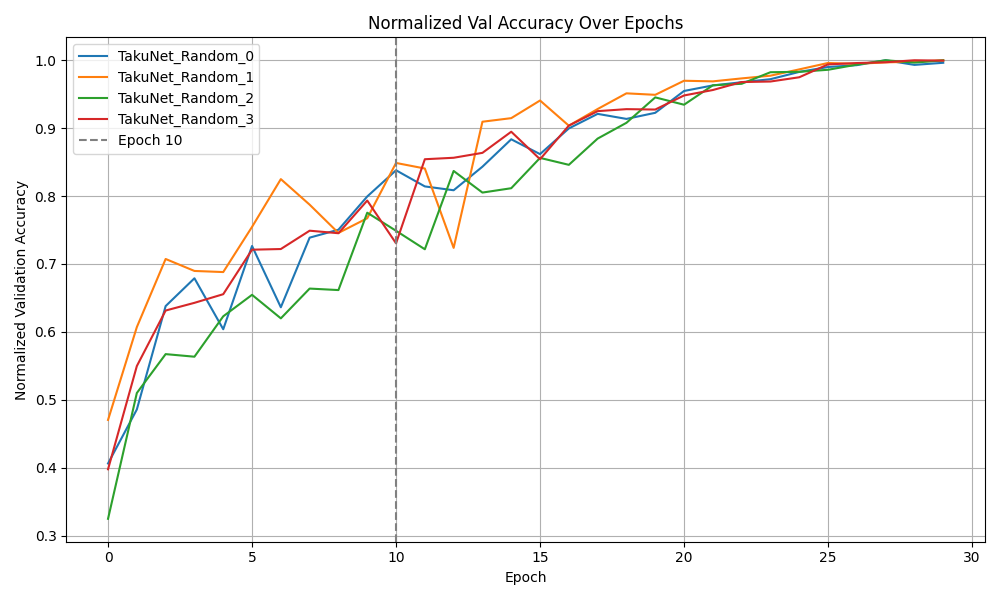
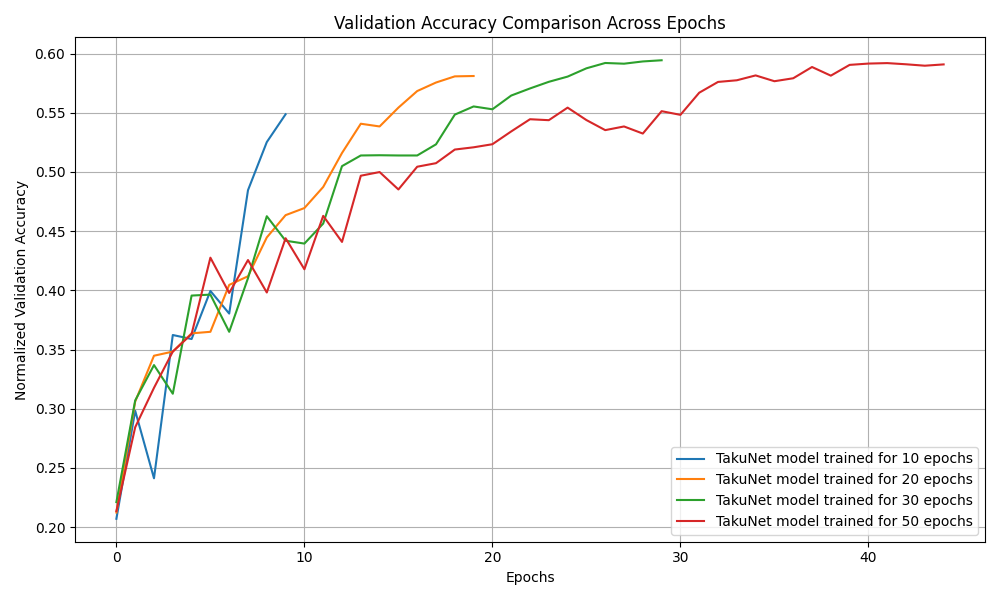
Plotting difference in RankNet

diff --git a/plotting/rankNetComparison.py b/plotting/rankNetComparison.py
@@ -1,0 +1,221 @@
+import os
+import argparse
+import pandas as pd
+import matplotlib.pyplot as plt
+from matplotlib.lines import Line2D
+import numpy as np
+
+# markers to distinguish different runs inside the same group
+MARKERS = ["o", "s", "D", "^", "v", "P", "X"]
+
+
+def read_csvs_from_folder(folder):
+    """Return list of (name, df) for all .csv files in folder, sorted by name."""
+    if not os.path.isdir(folder):
+        return []
+    files = [f for f in os.listdir(folder) if f.lower().endswith(".csv")]
+    files.sort()
+    out = []
+    for f in files:
+        path = os.path.join(folder, f)
+        df = pd.read_csv(path)
+        df = df.rename(columns=lambda x: x.strip())
+        out.append((f, df))
+    return out
+
+
+def detect_size_column(df):
+    """Try to find which column to use for bubble size."""
+    candidates = ["Estimated Flash Memory (KB)", "TFlite size(KB)"]
+    for c in candidates:
+        if c in df.columns:
+            return c
+    return None
+
+
+def plot_hour_run(root_dir, title=None, marker_scale=1.0, out_path=None):
+    """
+    root_dir/
+      WithRankNet/*.csv
+      WithoutRankNet/*.csv
+    """
+    with_dir = os.path.join(root_dir, "WithRankNet")
+    without_dir = os.path.join(root_dir, "WithoutRankNet")
+
+    # colors for the 2 categories
+    color_with = "tab:blue"
+    color_without = "tab:orange"
+
+    with_data = read_csvs_from_folder(with_dir)
+    without_data = read_csvs_from_folder(without_dir)
+
+    if not with_data and not without_data:
+        raise SystemExit(f"No CSVs found in {with_dir} or {without_dir}")
+
+    if title is None:
+        # use folder name as title
+        title = os.path.basename(os.path.normpath(root_dir))
+
+    if out_path is None:
+        out_path = os.path.join(root_dir, f"{title}_pareto.png")
+
+    # ---------------------------------------------------------
+    # 1) collect ALL size values (both folders) to normalize
+    # ---------------------------------------------------------
+    all_sizes = []
+    size_info = []  # (group, fname, df, size_col)
+
+    # store info for later plotting
+    for (group_name, data_list) in (("with", with_data), ("without", without_data)):
+        for fname, df in data_list:
+            # basic checks for x,y
+            for col in ["Best Test Accuracy", "Model RAM (KB)"]:
+                if col not in df.columns:
+                    raise ValueError(f"{fname} is missing column '{col}'")
+
+            size_col = detect_size_column(df)
+            if size_col is None:
+                raise ValueError(f"{fname} has no size column (TFlite/Flash).")
+
+            sizes = df[size_col].to_numpy()
+            all_sizes.extend(list(sizes))
+            size_info.append((group_name, fname, df, size_col))
+
+    # normalize sizes to a nice range
+    all_sizes = np.array(all_sizes, dtype=float)
+    min_size_display, max_size_display = 80, 800  # tweak here
+    s_min, s_max = all_sizes.min(), all_sizes.max()
+    # avoid division by zero
+    def normalize_sizes(raw):
+        if s_max == s_min:
+            return np.full_like(raw, (min_size_display + max_size_display) / 2.0)
+        norm = (raw - s_min) / (s_max - s_min)
+        return norm * (max_size_display - min_size_display) + min_size_display
+
+    # ---------------------------------------------------------
+    # 2) do the actual plotting
+    # ---------------------------------------------------------
+    plt.figure(figsize=(12, 6))
+    legend_entries = []
+
+    # plot WITH RankNet second (so it appears on top)
+    # first: WITHOUT
+    idx_without = 0
+    for group_name, fname, df, size_col in size_info:
+        if group_name != "without":
+            continue
+        marker = MARKERS[idx_without % len(MARKERS)]
+        idx_without += 1
+
+        bubble_sizes = normalize_sizes(df[size_col].to_numpy()) * marker_scale
+
+        plt.scatter(
+            df["Model RAM (KB)"],
+            df["Best Test Accuracy"],
+            s=bubble_sizes,
+            alpha=0.7,
+            color=color_without,
+            marker=marker,
+            edgecolors="black",
+            zorder=2,
+        )
+        legend_entries.append(
+            (f"No RankNet - {os.path.splitext(fname)[0]}", color_without, marker)
+        )
+
+    # then: WITH
+    idx_with = 0
+    for group_name, fname, df, size_col in size_info:
+        if group_name != "with":
+            continue
+        marker = MARKERS[idx_with % len(MARKERS)]
+        idx_with += 1
+
+        bubble_sizes = normalize_sizes(df[size_col].to_numpy()) * marker_scale
+
+        plt.scatter(
+            df["Model RAM (KB)"],
+            df["Best Test Accuracy"],
+            s=bubble_sizes,
+            alpha=0.9,
+            color=color_with,
+            marker=marker,
+            edgecolors="black",
+            zorder=3,  # on top
+        )
+        legend_entries.append(
+            (f"With RankNet - {os.path.splitext(fname)[0]}", color_with, marker)
+        )
+
+    # labels, grid, invert x
+    plt.xlabel("RAM Consumption (KB)", fontsize=12)
+    plt.ylabel("Val. Accuracy", fontsize=12)
+    plt.title(title, fontsize=14)
+    plt.grid(True)
+    plt.gca().invert_xaxis()
+
+    # build legend
+    handles = []
+    for text, color, marker in legend_entries:
+        handles.append(
+            Line2D(
+                [0],
+                [0],
+                marker=marker,
+                color="w",
+                label=text,
+                markerfacecolor=color,
+                markeredgecolor="black",
+                markersize=8,
+            )
+        )
+
+    plt.legend(
+        handles=handles,
+        loc="center left",
+        bbox_to_anchor=(1, 0.5),
+        fontsize=9,
+    )
+
+    plt.tight_layout(rect=[0, 0, 0.82, 1])
+    plt.savefig(out_path, dpi=300)
+    print(f"✅ saved to {out_path}")
+    plt.close()
+
+
+if __name__ == "__main__":
+    parser = argparse.ArgumentParser(
+        description="Plot RankNet vs non-RankNet runs from a single hour-run folder."
+    )
+    parser.add_argument(
+        "--hour_run_dir",
+        type=str,
+        required=True,
+        help='Path to the hour-run folder (e.g. "./10Hours"). This folder must contain "WithRankNet" and/or "WithoutRankNet".',
+    )
+    parser.add_argument(
+        "--title",
+        type=str,
+        default=None,
+        help="Title to show on top. If not given, the folder name is used.",
+    )
+    parser.add_argument(
+        "--marker_scale",
+        type=float,
+        default=1.0,   # 1.0 because we already normalize
+        help="Extra scale factor for bubble size.",
+    )
+    parser.add_argument(
+        "--out",
+        type=str,
+        default=None,
+        help="Output image path. If not given, saved inside the hour-run folder.",
+    )
+    args = parser.parse_args()
+
+    plot_hour_run(
+        root_dir=args.hour_run_dir,
+        title=args.title,
+        marker_scale=args.marker_scale,
+        out_path=args.out,
+    )

diff --git a/search_strategy.py b/search_strategy.py
@@ -388,24 +388,26 @@ class EvolutionarySearch:
             print(f"💪 All Competitors were trained. Selected {best_model.model_name} by fitness.\n")
             return best_model
 
-        # 🔁 Case 2: Use pairwise RankNet votes
+        # 🔁 Case 2: All the models are not trained
+        # Use pairwise RankNet votes
         vote_counts = [0] * len(models)
 
         for i in range(len(models) - 1):
             for j in range(i + 1, len(models)):
                 embed_i = np.expand_dims(simple_architecture_embedding(models[i].model_params), axis=0)
                 embed_j = np.expand_dims(simple_architecture_embedding(models[j].model_params), axis=0)
+                 # Use RankNet to predict winner
                 pred = self.ranknet.predict([embed_i, embed_j], verbose=0)
 
-                if pred[0][0] > 0.5:
-                    vote_counts[i] += 1
+                if pred[0][0] > 0.5: # Is embedding_i more promissing ?
+                    vote_counts[i] += 1 # Give 1 vote to embedding i
                 else:
-                    vote_counts[j] += 1
+                    vote_counts[j] += 1 # Give 1 vote to embedding j
 
         winner_index = int(np.argmax(vote_counts))
         predicted_winner = models[winner_index]
 
-        # 🛠 Train if needed
+        # 🛠 Train the expected winner if needed
         if not predicted_winner.is_trained:
             print(f"🚀 RankNet picked {predicted_winner.model_name}. Training now...\n")
             predicted_winner.train(x_train=self.x_train, y_train=self.y_train,

diff --git a/evolutionary_run.py b/evolutionary_run.py
@@ -212,3 +212,29 @@ pareto_models = is_pareto_efficient(models_data)
 df_results = pd.DataFrame(pareto_models)
 df_results.to_csv(f'{Folder}/results/Pareto_Optimal_Models.csv', index=False)
 print(f"✅ Pareto-optimal models saved to: {Folder}/results/Pareto_Optimal_Models.csv")
+
+
+# --------------------------------------------------------------------
+# EXTRA SAVE: ThesisResults/<Constrained|UnConstrained>/<XHours>/<With|Without>/
+# --------------------------------------------------------------------
+
+# 1) constrained vs unconstrained
+constraint_folder = "Constrained" if args.hardwareConstrains else "UnConstrained"
+
+# 2) hour folder from --time (12.0 -> "12Hours")
+hours_int = int(args.time)
+hours_folder = f"{hours_int}Hours"
+
+# 3) ranknet subfolder
+ranknet_folder = "WithRankNet" if args.use_ranknet else "WithoutRankNet"
+
+# 4) build final dir
+export_root = os.path.join("ThesisResults", constraint_folder, hours_folder, ranknet_folder)
+os.makedirs(export_root, exist_ok=True)
+
+# 5) filename with date
+export_filename = f"Pareto_Optimal_Models_{today}.csv"
+export_path = os.path.join(export_root, export_filename)
+
+df_results.to_csv(export_path, index=False)
+print(f"✅ Pareto-optimal models ALSO saved to: {export_path}")
